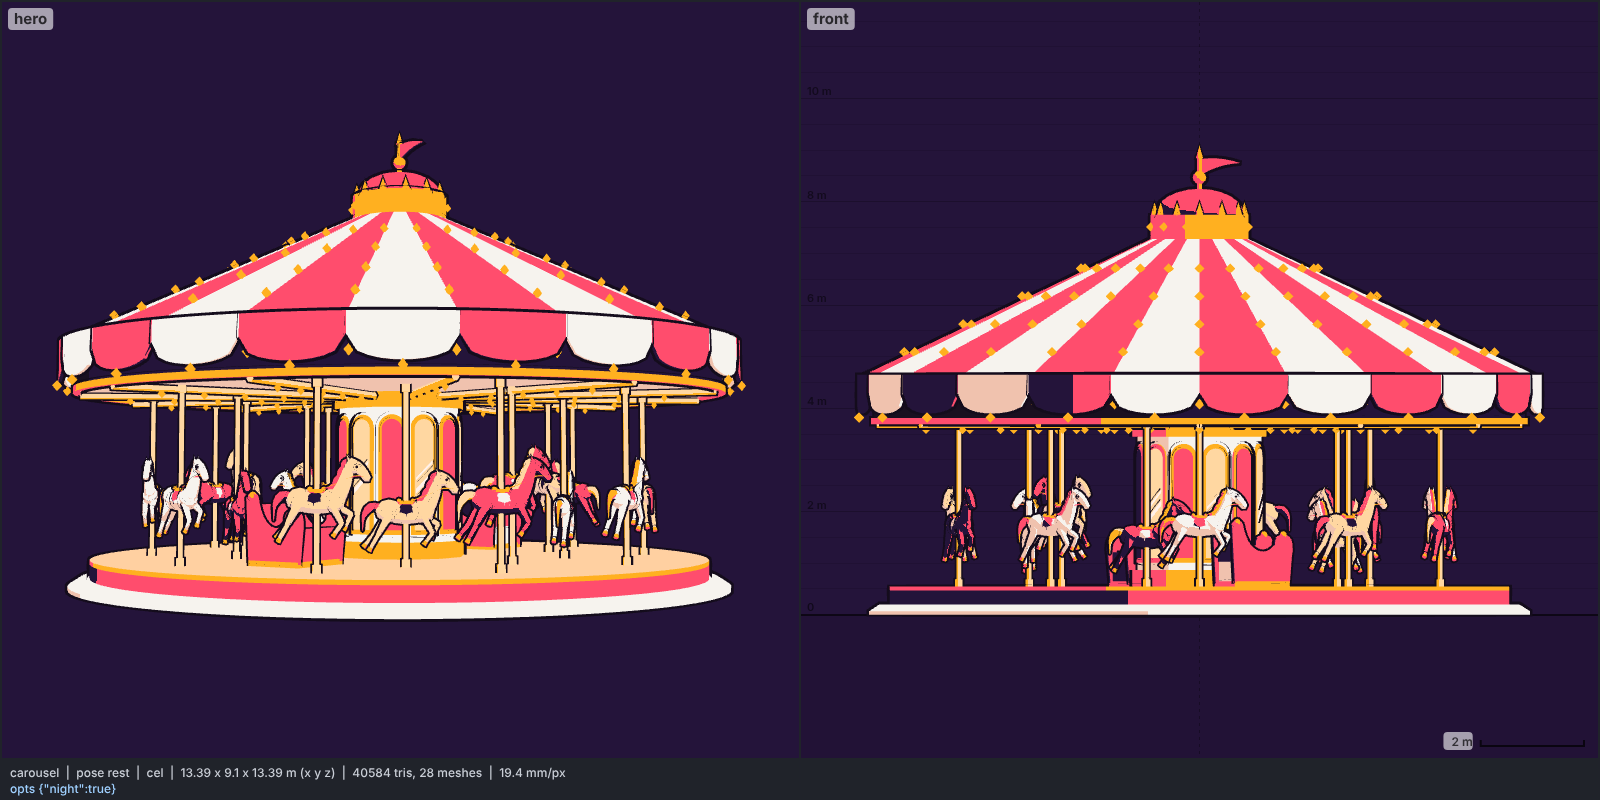
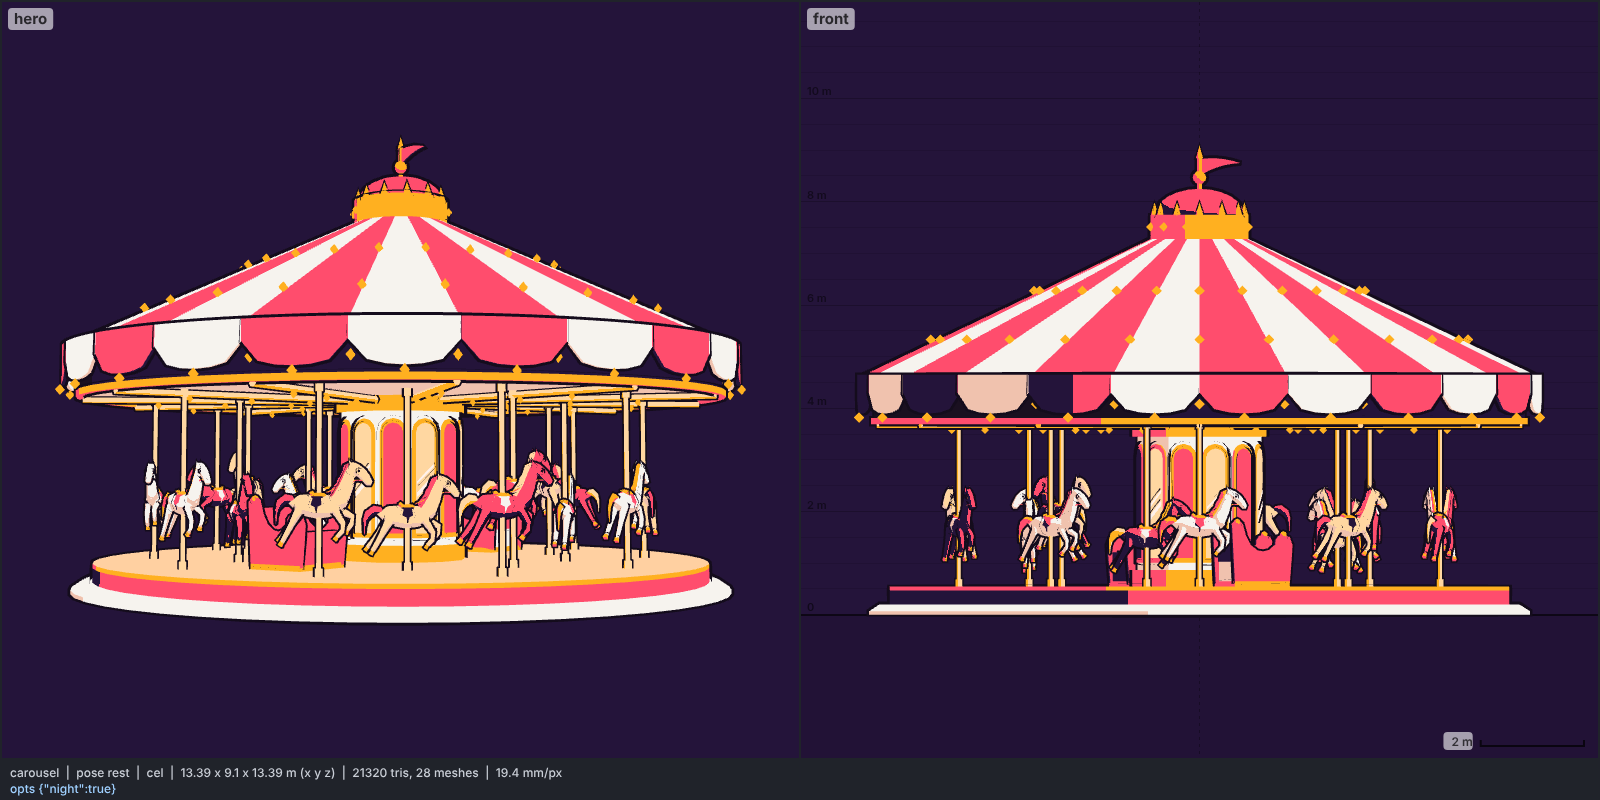
carousel: halve the triangle count to about 21k
Low-poly horses (one body tube, four-sided legs through the knee,
coarser neck, head, mane and tail; 770 triangles each, was 1.6k),
24-sided canopy cone, shallower valance scallops, coarser platform
lathes, poles, arches and bench knobs, and fewer bulbs on the stripe
seams and ceiling sweeps.

Claude-Session: https://claude.ai/code/session_01RarBCdt4E1fNHHaUKaW5GL

diff --git a/models/carousel.js b/models/carousel.js
@@ -18,14 +18,14 @@
 //                      dome, and a gold finial with a ball and a pennant. Canopy, valance and crown share one hull.
 //            chariots  two carriage benches (extruded scroll side panels, seat, back, dash) in the inner ring.
 //   HORSES   one joint per horse (child of the rotor), bobbing up and down its pole. One horse geometry, built once
-//            from ellipsoids (barrel, chest, rump, jowl) and lofted tubes (arched neck, bowed head, crest mane, tail,
-//            two-segment legs in the carousel "jumper" pose: fore legs tucked, hind legs stretched back), with ears,
+//            low-poly from lofted tubes (one body tube, arched neck, bowed head, crest mane, tail, four-sided legs
+//            through the knee in the carousel "jumper" pose: fore legs tucked, hind legs stretched back), with ears,
 //            eyes, a saddle blanket and seat and gilded hooves as material groups: one mesh and one hull per horse,
 //            coloured per horse from a three-coat sequence (white, cream, pink).
 // Proportions (real size, base unit the platform radius R = 6 m, a 12 m ride): floor 0.55 m up, ceiling 3.75 m, rounding
 //   board to 4.62 m, canopy rim r 6.6 m at 4.6 m, cone to r 0.9 m at 7.3 m, crown 7.75 m, dome 8.2 m, finial and pennant
 //   to 9.05 m. Column r 1.2 m. Horse rings r 4.9 m (outer) and 3.3 m (inner, two slots are chariots); horses 1.6 m nose
-//   to tail, body 1.15 m over the floor at mid-stroke, bob +-0.22 m. About 40k triangles (1.6k a horse), 28 meshes.
+//   to tail, body 1.15 m over the floor at mid-stroke, bob +-0.22 m. About 21k triangles (770 a horse), 28 meshes.
 // Options: build(THREE, kit, colors, { height, horses, night }): height scales uniformly (default meta.height); horses
 //   = slots per ring, 8-12 (default 10: 10 outer horses, 8 inner horses and 2 chariots); night lights every bulb
 //   (practical) and the column mirrors (moon).
@@ -276,54 +276,53 @@ export function build(THREE, kit, colors = meta.colors, opts = {}) {
   // hind hooves (-0.78, -0.60) and (-0.68, -0.66).
   const horseGeo = (() => {
     const H = bag();
-    H.geo("coat", ell(0, 0, 0, 0.17, 0.2, 0.46));
-    H.geo("coat", ell(0, 0.04, 0.3, 0.165, 0.22, 0.24));
-    H.geo("coat", ell(0, 0.05, -0.32, 0.175, 0.22, 0.26));
+    // barrel, chest and rump as one tube from the buttock to the breast
+    H.geo("coat", tube([[0, 0.06, -0.58], [0, 0.04, -0.3], [0, 0, 0], [0, 0.04, 0.3], [0, 0.06, 0.54]],
+      (t) => { const k = Math.sin(Math.PI * t) ** 0.4; return [0.175 * k, 0.215 * k]; }, { steps: 6, seg: 8, dome: 0.9 }));
     // arched neck from the chest up to the poll
     H.geo("coat", tube([[0, 0.06, 0.36], [0, 0.32, 0.5], [0, 0.55, 0.58], [0, 0.68, 0.63]],
-      (t) => [lerp1(0.125, 0.075, t), lerp1(0.17, 0.095, t)], { steps: 6 }));
-    // head bowed forward and down, jowl, muzzle
+      (t) => [lerp1(0.125, 0.075, t), lerp1(0.17, 0.1, t)], { steps: 4, seg: 6 }));
+    // head bowed forward and down, deep at the jowl
     H.geo("coat", tube([[0, 0.71, 0.6], [0, 0.65, 0.74], [0, 0.53, 0.87], [0, 0.42, 0.95]],
-      (t) => [lerp1(0.075, 0.06, t), lerp1(0.1, 0.068, t) + 0.012 * Math.sin(Math.PI * t)], { steps: 6, dome: 0.7 }));
-    H.geo("coat", ell(0, 0.62, 0.7, 0.08, 0.1, 0.1, 8, 5));
+      (t) => [lerp1(0.08, 0.06, t), lerp1(0.11, 0.068, t) + 0.015 * Math.sin(Math.PI * t)], { steps: 4, seg: 6, dome: 0.7 }));
     for (const s of [1, -1]) {
-      const ear = new THREE.ConeGeometry(0.032, 0.13, 6);
+      const ear = new THREE.ConeGeometry(0.032, 0.13, 4);
       ear.rotateX(-0.35).translate(s * 0.045, 0.79, 0.6);
       H.geo("coat", ear);
-      H.geo("eye", ell(s * 0.066, 0.64, 0.77, 0.022, 0.026, 0.03, 6, 4));
+      H.geo("eye", ell(s * 0.066, 0.64, 0.77, 0.022, 0.026, 0.03, 5, 3));
     }
     // mane along the crest, in lumps; forelock
     H.geo("mane", tube([[0, 0.17, 0.25], [0, 0.4, 0.4], [0, 0.6, 0.5], [0, 0.78, 0.58]],
-      (t) => [0.05 - 0.015 * t, (0.07 + 0.025 * Math.abs(Math.sin(t * Math.PI * 4))) * (t < 0.9 ? 1 : 1 - (t - 0.9) * 6)], { steps: 12, seg: 6 }));
+      (t) => [0.05 - 0.015 * t, (0.07 + 0.03 * Math.abs(Math.sin(t * Math.PI * 3))) * (t < 0.88 ? 1 : 1 - (t - 0.88) * 6)], { steps: 8, seg: 4 }));
     // tail, flowing down
     H.geo("mane", tube([[0, 0.14, -0.5], [0, 0.12, -0.68], [0, -0.05, -0.8], [0, -0.32, -0.82]],
-      (t) => [0.05 * (1 - t) + 0.008, (0.06 + 0.06 * Math.sin(Math.PI * Math.min(1, t * 1.4))) * (1 - t * 0.85)], { steps: 8, seg: 6 }));
-    // legs: upper segment knob at the joint, lower starts inside it, gilded hoof at the end
+      (t) => [0.05 * (1 - t) + 0.01, (0.06 + 0.06 * Math.sin(Math.PI * Math.min(1, t * 1.4))) * (1 - t * 0.85)], { steps: 5, seg: 4 }));
+    // legs: one four-sided tube each, shoulder -> knee -> fetlock, gilded hoof at the end
     const leg = (x, top, mid, end, r0, r1, r2) => {
-      H.geo("coat", tube([[x, ...top], [x, ...mid]], (t) => [lerp1(r0, r1, t), lerp1(r0, r1, t)], { steps: 2, seg: 6, dome: 0.7 }));
       const d = norm(sub([x, ...end], [x, ...mid])), e2 = add([x, ...end], mul(d, -0.03));
-      H.geo("coat", tube([[x, ...mid], e2], (t) => [lerp1(r1 * 0.85, r2, t), lerp1(r1 * 0.85, r2, t)], { steps: 2, seg: 6 }));
-      const hoof = new THREE.CylinderGeometry(r2 * 1.05, r2 * 1.25, 0.08, 6);
+      H.geo("coat", tube([[x, ...top], [x, ...mid], e2], (t) => {
+        const r = t < 0.5 ? lerp1(r0, r1, t * 2) : lerp1(r1, r2, t * 2 - 1);
+        return [r, r];
+      }, { steps: 4, seg: 4, dome: 0.6 }));
+      const hoof = new THREE.CylinderGeometry(r2 * 1.1, r2 * 1.35, 0.08, 4);
+      hoof.rotateY(Math.PI / 4);
       const q = new THREE.Quaternion().setFromUnitVectors(new THREE.Vector3(0, -1, 0), new THREE.Vector3(...d));
       hoof.applyQuaternion(q);
-      const hc = add([x, ...end], mul(d, 0.005));
-      hoof.translate(...hc);
+      hoof.translate(...add([x, ...end], mul(d, 0.005)));
       H.geo("hoof", hoof);
     };
     // [y, z] pairs
     const yz = (z, y) => [y, z];
-    leg(0.085, yz(0.36, -0.06), yz(0.62, -0.2), yz(0.5, -0.44), 0.07, 0.048, 0.038); // near fore, tucked high
-    leg(-0.085, yz(0.33, -0.06), yz(0.5, -0.36), yz(0.36, -0.55), 0.07, 0.048, 0.038); // off fore, lower
-    leg(0.09, yz(-0.34, -0.02), yz(-0.58, -0.36), yz(-0.78, -0.6), 0.09, 0.052, 0.04); // near hind, stretched back
-    leg(-0.09, yz(-0.32, -0.02), yz(-0.52, -0.38), yz(-0.68, -0.66), 0.09, 0.052, 0.04); // off hind
-    // saddle blanket and seat
-    H.geo("blanket", ell(0, 0.035, 0.0, 0.18, 0.185, 0.21, 10, 6));
-    H.geo("seat", ell(0, 0.2, 0.0, 0.13, 0.055, 0.17, 8, 5));
-    H.geo("seat", ell(0, 0.24, -0.13, 0.11, 0.05, 0.05, 6, 4)); // cantle
-    H.geo("seat", ell(0, 0.24, 0.13, 0.07, 0.05, 0.045, 6, 4)); // pommel
-    // reins: a gold strap from the muzzle to the pommel
+    leg(0.085, yz(0.36, -0.06), yz(0.62, -0.2), yz(0.5, -0.44), 0.07, 0.05, 0.04); // near fore, tucked high
+    leg(-0.085, yz(0.33, -0.06), yz(0.5, -0.36), yz(0.36, -0.55), 0.07, 0.05, 0.04); // off fore, lower
+    leg(0.09, yz(-0.34, -0.02), yz(-0.58, -0.36), yz(-0.78, -0.6), 0.09, 0.055, 0.042); // near hind, stretched back
+    leg(-0.09, yz(-0.32, -0.02), yz(-0.52, -0.38), yz(-0.68, -0.66), 0.09, 0.055, 0.042); // off hind
+    // saddle blanket, seat with cantle, reins from the muzzle to the seat
+    H.geo("blanket", ell(0, 0.04, 0.0, 0.2, 0.2, 0.21, 8, 4));
+    H.geo("seat", ell(0, 0.2, 0.0, 0.13, 0.06, 0.17, 6, 4));
+    H.geo("seat", ell(0, 0.24, -0.13, 0.11, 0.05, 0.05, 5, 3));
     H.geo("seat", tube([[0, 0.47, 0.9], [0, 0.48, 0.72], [0, 0.36, 0.42], [0, 0.26, 0.16]],
-      () => [0.071, 0.012], { steps: 8, seg: 4 }));
+      () => [0.071, 0.012], { steps: 4, seg: 3 }));
     return grouped(H, ["coat", "mane", "blanket", "seat", "hoof", "eye"]);
   })();
   // coat, mane, blanket per variant
@@ -351,21 +350,21 @@ export function build(THREE, kit, colors = meta.colors, opts = {}) {
     sh.quadraticCurveTo(-0.5, 1.36, -0.62, 1.2);
     sh.lineTo(-0.56, 0.06);
     for (const s of [1, -1]) {
-      const g = new THREE.ExtrudeGeometry(sh, { depth: 0.08, bevelEnabled: false, curveSegments: 6 });
+      const g = new THREE.ExtrudeGeometry(sh, { depth: 0.08, bevelEnabled: false, curveSegments: 3 });
       const m = new THREE.Matrix4().makeRotationY(-Math.PI / 2).setPosition(s * 0.6 + 0.04, 0, 0);
       B.geo("chBody", g, m);
     }
     // gold scroll knobs on the side panels
     for (const s of [1, -1]) {
-      B.geo("chTrim", ell(s * 0.6, 1.0, 0.44, 0.07, 0.07, 0.07, 8, 6));
-      B.geo("chTrim", ell(s * 0.6, 1.24, -0.5, 0.07, 0.07, 0.07, 8, 6));
+      B.geo("chTrim", ell(s * 0.6, 1.0, 0.44, 0.07, 0.07, 0.07, 6, 4));
+      B.geo("chTrim", ell(s * 0.6, 1.24, -0.5, 0.07, 0.07, 0.07, 6, 4));
     }
     return B;
   })();
 
   // ---------- static base ----------
   const S0 = bag();
-  S0.lathe([[0, 0], [6.4, 0], [6.4, 0.07], [6.2, 0.2], [0, 0.2]], 72, (j, i) => "base");
+  S0.lathe([[0, 0], [6.4, 0], [6.4, 0.07], [6.2, 0.2], [0, 0.2]], 48, (j, i) => "base");
   body.add(meshOf(S0, ["base"], { base: [c.column, c.columnShade, 0.2] }, { px: 3, name: "base" }));
 
   // ---------- rotor ----------
@@ -375,7 +374,7 @@ export function build(THREE, kit, colors = meta.colors, opts = {}) {
   joints.rotor = rotor;
   const R = bag();
   // platform: skirt, gold lip, floor
-  R.lathe([[0, 0.2], [6, 0.2], [6, 0.47], [6, 0.55], [0, 0.55]], 72, (j, i) => ["skirt", "skirt", "gold", "floor"][i]);
+  R.lathe([[0, 0.2], [6, 0.2], [6, 0.47], [6, 0.55], [0, 0.55]], 48, (j, i) => ["skirt", "skirt", "gold", "floor"][i]);
   // column: 12-gon with gold bands
   R.lathe([[0, FLOOR], [COL_R, FLOOR], [COL_R, CEIL], [0, CEIL]], 12, (j, i) => (i === 1 ? "column" : null), { facet: true });
   for (const [y0, y1] of [[FLOOR, FLOOR + 0.32], [CEIL - 0.3, CEIL]])
@@ -392,8 +391,8 @@ export function build(THREE, kit, colors = meta.colors, opts = {}) {
   for (let k = 0; k < 12; k++) {
     const phi = ((k + 0.5) / 12) * TAU;
     const at = (d, y) => new THREE.Matrix4().makeRotationY(phi).setPosition(...P(ap + d, phi, y));
-    R.geo("gold", new THREE.ExtrudeGeometry(arch(0.52, 2.3), { depth: 0.05, bevelEnabled: false, curveSegments: 8 }), at(-0.01, FLOOR + 0.46));
-    R.geo(k % 2 ? "panel" : "mirror", new THREE.ExtrudeGeometry(arch(0.38, 2.12), { depth: 0.07, bevelEnabled: false, curveSegments: 8 }), at(-0.01, FLOOR + 0.55));
+    R.geo("gold", new THREE.ExtrudeGeometry(arch(0.52, 2.3), { depth: 0.05, bevelEnabled: false, curveSegments: 3 }), at(-0.01, FLOOR + 0.46));
+    R.geo(k % 2 ? "panel" : "mirror", new THREE.ExtrudeGeometry(arch(0.38, 2.12), { depth: 0.07, bevelEnabled: false, curveSegments: 3 }), at(-0.01, FLOOR + 0.55));
     if (k % 2 === 0)
       for (const [y, w] of [[1.25, 0.09], [1.5, 0.05]]) {
         const g = new THREE.Shape();
@@ -402,17 +401,17 @@ export function build(THREE, kit, colors = meta.colors, opts = {}) {
       }
   }
   // ceiling, rounding board and its rails
-  R.lathe([[0, CEIL], [BOARD_R, CEIL], [BOARD_R, BOARD_TOP], [0, BOARD_TOP]], 72, (j, i) => (i === 0 ? "ceiling" : i === 1 ? "board" : null));
-  R.lathe([[BOARD_R - 0.05, CEIL - 0.06], [BOARD_R + 0.06, CEIL - 0.06], [BOARD_R + 0.06, CEIL + 0.06], [BOARD_R - 0.05, CEIL + 0.06], [BOARD_R - 0.05, CEIL - 0.06]], 72, () => "gold");
+  R.lathe([[0, CEIL], [BOARD_R, CEIL], [BOARD_R, BOARD_TOP], [0, BOARD_TOP]], 48, (j, i) => (i === 0 ? "ceiling" : i === 1 ? "board" : null));
+  R.lathe([[BOARD_R - 0.05, CEIL - 0.06], [BOARD_R + 0.06, CEIL - 0.06], [BOARD_R + 0.06, CEIL + 0.06], [BOARD_R - 0.05, CEIL + 0.06], [BOARD_R - 0.05, CEIL - 0.06]], 48, () => "gold");
   for (let k = 0; k < 12; k++) {
     const a = (k / 12) * TAU;
     R.rod("trim", P(COL_R + 0.1, a, CEIL - 0.08), P(BOARD_R - 0.05, a, CEIL - 0.08), 0.06, 6);
   }
   // canopy cone in stripes, closed underneath
-  const stripeKey = (j) => (Math.floor(j / 3) % 2 ? "stripeB" : "stripeA");
-  R.lathe([[0, RIM_Y], [RIM_R, RIM_Y], [TOP_R, TOP_Y], [0, TOP_Y]], STRIPES * 3, (j, i) => (i === 0 ? "ceiling" : i === 1 ? stripeKey(j) : "gold"));
+  const stripeKey = (j) => (j % 2 ? "stripeB" : "stripeA");
+  R.lathe([[0, RIM_Y], [RIM_R, RIM_Y], [TOP_R, TOP_Y], [0, TOP_Y]], STRIPES, (j, i) => (i === 0 ? "ceiling" : i === 1 ? stripeKey(j) : "gold"));
   // scalloped valance: a thin slab per stripe hanging from the rim, one rounded lobe each
-  const V_TOP = RIM_Y + 0.05, V_EDGE = RIM_Y - 0.3, V_DEPTH = 0.4, VR0 = RIM_R - 0.03, VR1 = RIM_R + 0.03, VSUB = 10;
+  const V_TOP = RIM_Y + 0.05, V_EDGE = RIM_Y - 0.3, V_DEPTH = 0.4, VR0 = RIM_R - 0.03, VR1 = RIM_R + 0.03, VSUB = 6;
   for (let s = 0; s < STRIPES; s++) {
     const k = s % 2 ? "stripeB" : "stripeA";
     const th = (u) => ((s + u) / STRIPES) * TAU;
@@ -465,9 +464,9 @@ export function build(THREE, kit, colors = meta.colors, opts = {}) {
       R.put(chariot, new THREE.Matrix4().makeRotationY(sl.a + Math.PI / 2).setPosition(...P(sl.r, sl.a, FLOOR)));
       continue;
     }
-    R.rod("pole", P(sl.r, sl.a, FLOOR), P(sl.r, sl.a, CEIL), 0.045, 8);
-    R.rod("trim", P(sl.r, sl.a, FLOOR), P(sl.r, sl.a, FLOOR + 0.14), 0.075, 8);
-    R.rod("trim", P(sl.r, sl.a, CEIL - 0.14), P(sl.r, sl.a, CEIL), 0.075, 8);
+    R.rod("pole", P(sl.r, sl.a, FLOOR), P(sl.r, sl.a, CEIL), 0.045, 6);
+    R.rod("trim", P(sl.r, sl.a, FLOOR), P(sl.r, sl.a, FLOOR + 0.14), 0.075, 6);
+    R.rod("trim", P(sl.r, sl.a, CEIL - 0.14), P(sl.r, sl.a, CEIL), 0.075, 6);
   }
   // bulbs: under every lobe, between lobes on the board, up every stripe seam, round the crown
   const B = bag();
@@ -475,14 +474,14 @@ export function build(THREE, kit, colors = meta.colors, opts = {}) {
     const a = (s / STRIPES) * TAU, am = ((s + 0.5) / STRIPES) * TAU;
     B.bulb("bulb", P(RIM_R + 0.05, am, V_EDGE - V_DEPTH - 0.08), 0.1);
     B.bulb("bulb", P(BOARD_R + 0.04, a, CEIL + 0.33), 0.1);
-    for (const t of [0.16, 0.36, 0.56, 0.76]) {
+    for (const t of [0.25, 0.6]) {
       const r = lerp1(RIM_R, TOP_R, t), y = lerp1(RIM_Y, TOP_Y, t);
       B.bulb("bulb", add(P(r, a, y), mul(norm(P(2.7, a, 5.7)), 0.06)), 0.1);
     }
   }
   // a row of bulbs under every ceiling sweep
   for (let k = 0; k < 12; k++)
-    for (let r = 1.9; r < BOARD_R - 0.3; r += 0.85) B.bulb("bulb", P(r, (k / 12) * TAU, CEIL - 0.17), 0.08);
+    for (let r = 2.2; r < BOARD_R - 0.3; r += 1.3) B.bulb("bulb", P(r, (k / 12) * TAU, CEIL - 0.17), 0.08);
   for (let k = 0; k < 12; k++) B.bulb("bulb", P(CR + 0.03, ((k + 0.5) / 12) * TAU, (C0 + C1) / 2), 0.09);
   const lit = night ? c.bulbLit : c.bulb;
   rotor.add(meshOf(B, ["bulb"], { bulb: [lit, lit, -0.25] }, { outline: false, name: "bulbs" }));
